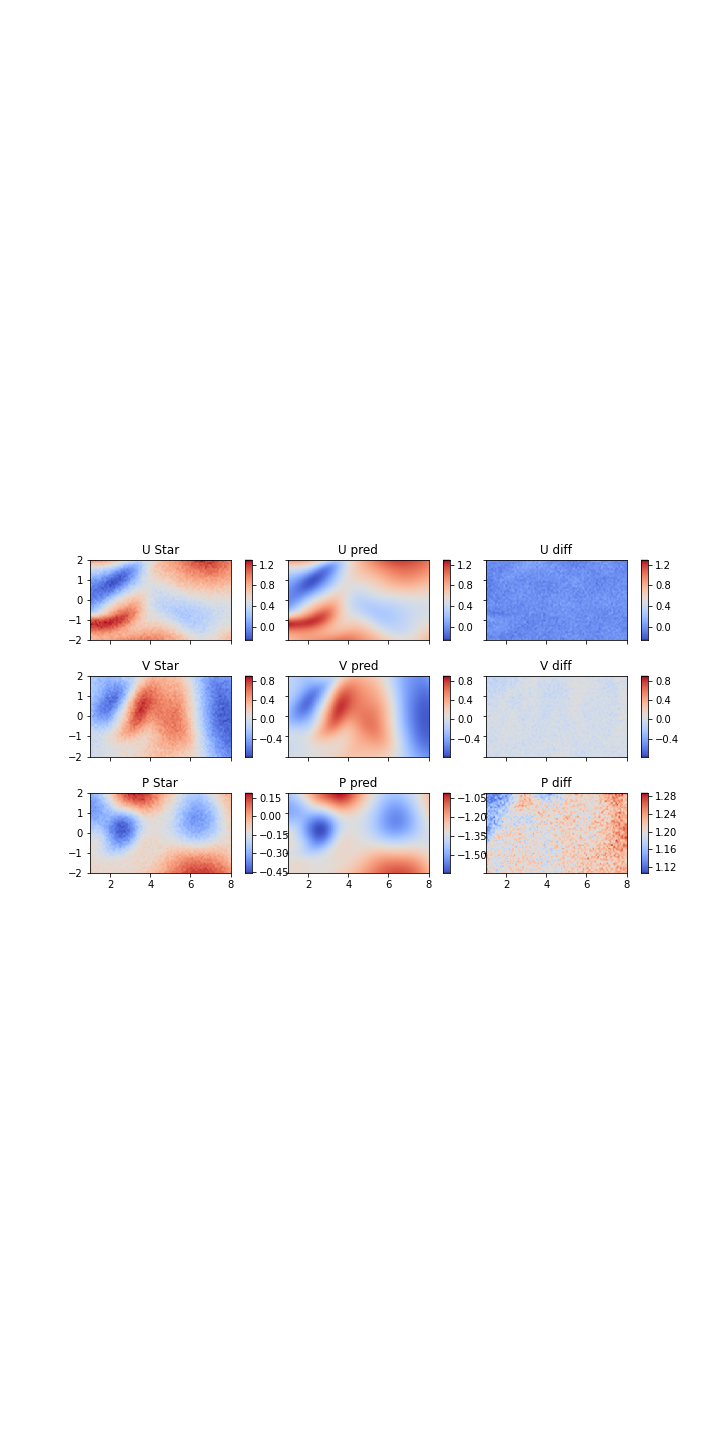
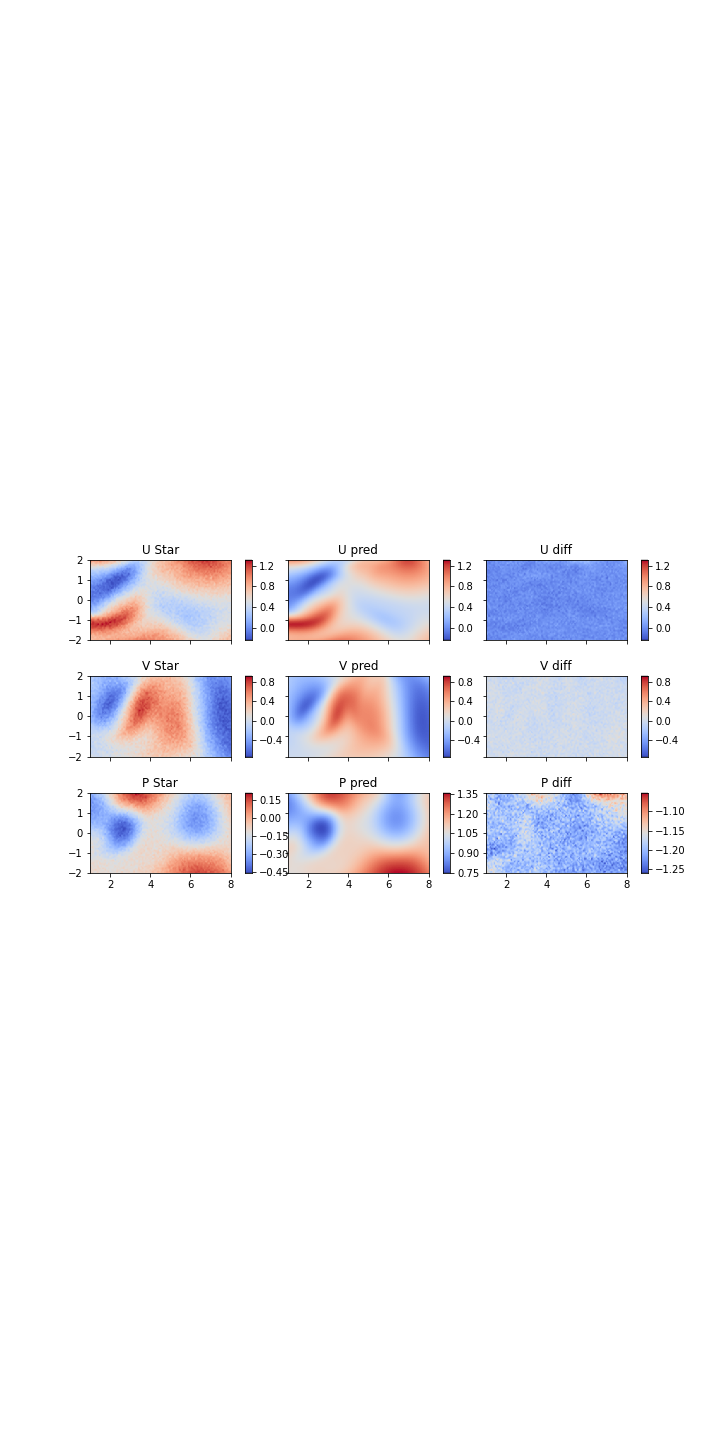
create basic_noisy results

diff --git a/src/noisy/py/04. basic_noisy_0.1_alp_0.25.py b/src/noisy/py/04. basic_noisy_0.1_alp_0.25.py
@@ -32,7 +32,7 @@ path = "../../../data/{}/".format(pro)
 
 layers = [3] + 8 * [20] + [2]
 Itration = 1*10**5
-rs = 12345
+rs = 123
 N_train = .001
 
 ns_lv = .1

diff --git a/src/noisy/py/06. basic_noisy_0.1_alp_0.75.py b/src/noisy/py/06. basic_noisy_0.1_alp_0.75.py
@@ -32,7 +32,7 @@ path = "../../../data/{}/".format(pro)
 
 layers = [3] + 8 * [20] + [2]
 Itration = 1*10**5
-rs = 12345
+rs = 123
 N_train = .001
 
 ns_lv = .1

diff --git a/src/noisy/py/07. basic_noisy_0.2_alp_0.25.py b/src/noisy/py/07. basic_noisy_0.2_alp_0.25.py
@@ -32,7 +32,7 @@ path = "../../../data/{}/".format(pro)
 
 layers = [3] + 8 * [20] + [2]
 Itration = 1*10**5
-rs = 12345
+rs = 123
 N_train = .001
 
 ns_lv = .2

diff --git a/src/noisy/py/08. basic_noisy_0.2_alp_0.5.py b/src/noisy/py/08. basic_noisy_0.2_alp_0.5.py
@@ -32,7 +32,7 @@ path = "../../../data/{}/".format(pro)
 
 layers = [3] + 8 * [20] + [2]
 Itration = 1*10**5
-rs = 12345
+rs = 123
 N_train = .001
 
 ns_lv = .2

diff --git a/src/noisy/py/09. basic_noisy_0.2_alp_0.75.py b/src/noisy/py/09. basic_noisy_0.2_alp_0.75.py
@@ -32,7 +32,7 @@ path = "../../../data/{}/".format(pro)
 
 layers = [3] + 8 * [20] + [2]
 Itration = 1*10**5
-rs = 12345
+rs = 123
 N_train = .001
 
 ns_lv = .2

diff --git a/src/noisy/py/03. basic_noisy_0_alp_0.75.py b/src/noisy/py/03. basic_noisy_0_alp_0.75.py
@@ -32,7 +32,7 @@ path = "../../../data/{}/".format(pro)
 
 layers = [3] + 8 * [20] + [2]
 Itration = 1*10**5
-rs = 12345
+rs = 123
 N_train = .001
 
 ns_lv = 0

diff --git a/src/noisy/py/05. basic_noisy_0.1_alp_0.5.py b/src/noisy/py/05. basic_noisy_0.1_alp_0.5.py
@@ -32,7 +32,7 @@ path = "../../../data/{}/".format(pro)
 
 layers = [3] + 8 * [20] + [2]
 Itration = 1*10**5
-rs = 1234
+rs = 123
 N_train = .001
 
 ns_lv = .1
